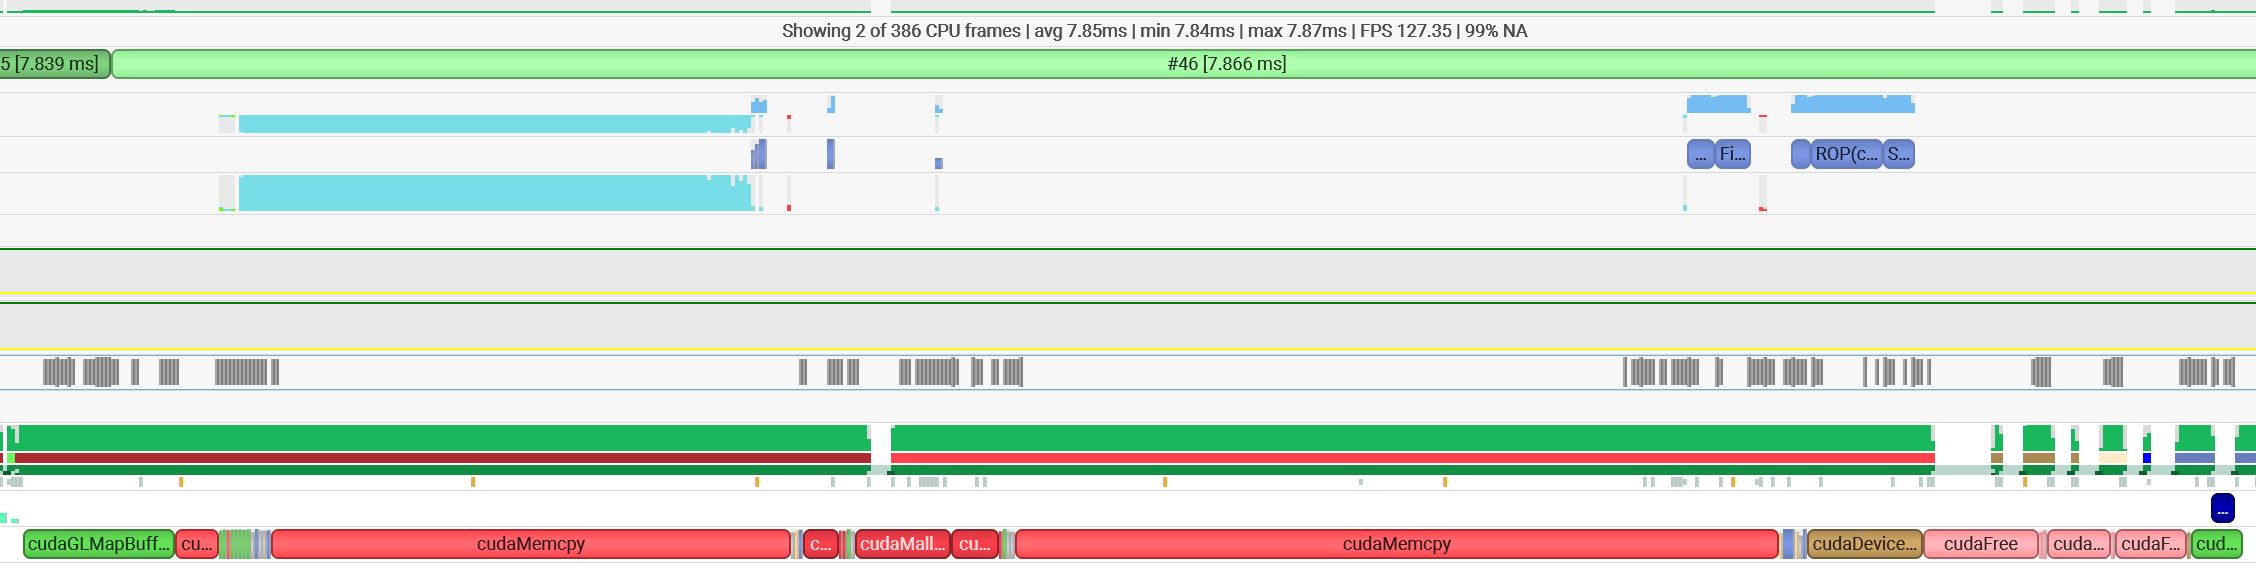
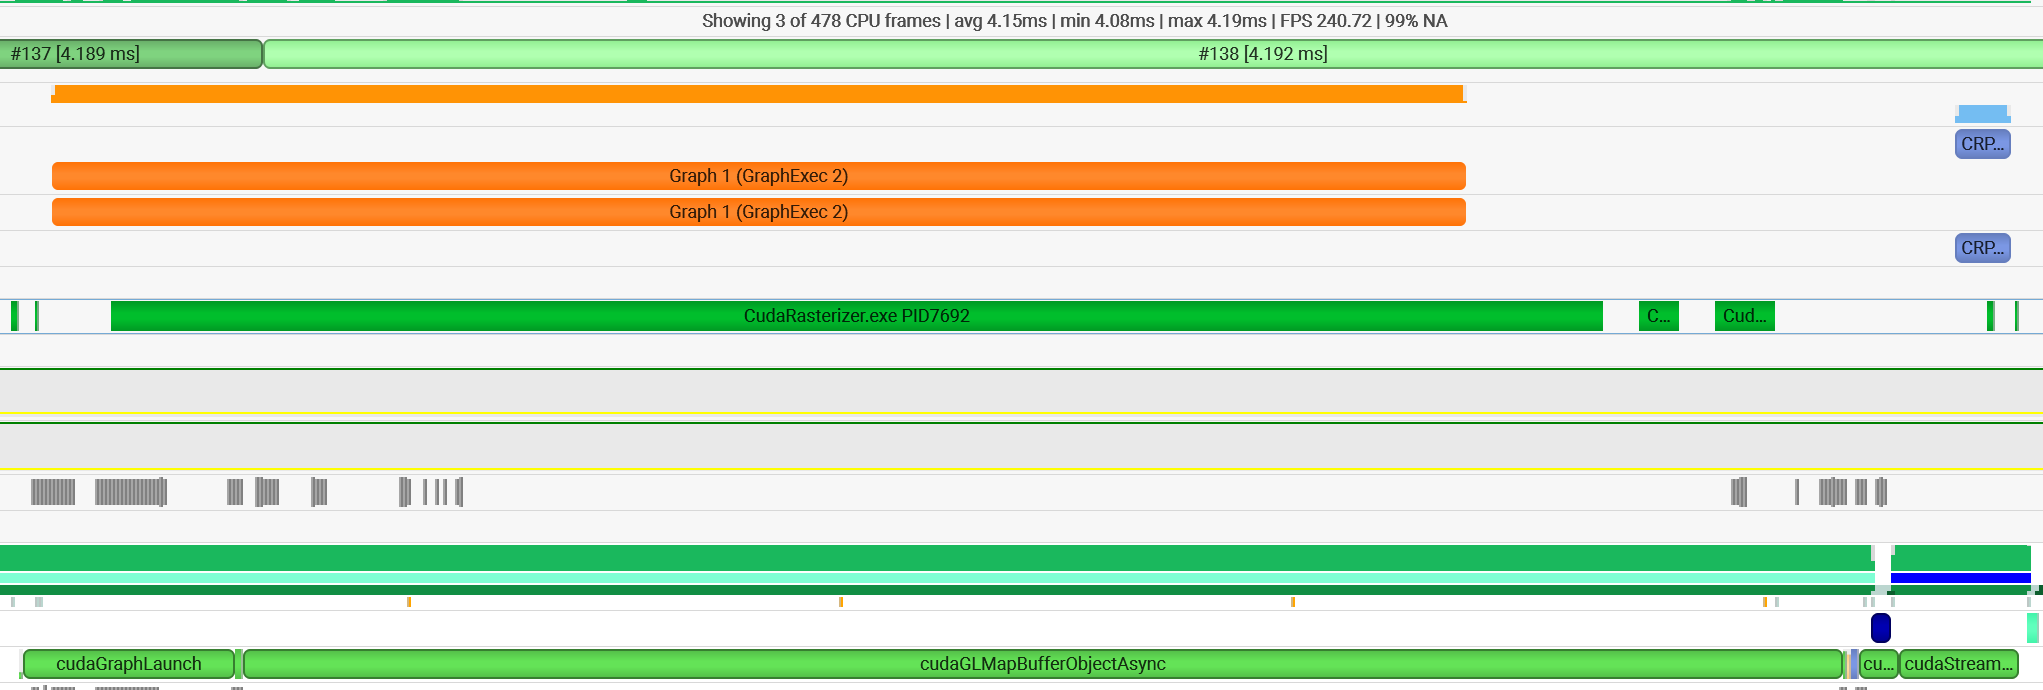
complete readme

diff --git a/README.md b/README.md
@@ -10,9 +10,9 @@ A high-performance GPU rasterizer implemented entirely in CUDA, simulating moder
 
 *upper - opaque; bottom - OIT*
 
-![Rendered Bunny Model](./images/teaser.png)
+<img src="./images/teaser.png" style="zoom:25%;" />
 
-![OIT](./images/OIT.png)
+<img src="./images/OIT.png" style="zoom:25%;" />
 
 ### Motivation - Why Build a CUDA Rasterizer?
 
@@ -58,7 +58,7 @@ We implemented a sort-middle rendering architecture (the primitives are redistri
 
 As the figure above shows, because of the task reducing and redistributing system of the tile-based arch, it's smooth to both zoom in and out
 
-### Advanced CUDA Primitives & technique []
+### Advanced CUDA Primitives & technique [See Chapter Optimization & Performance Analysis]
 
 * Use **warp level functions** implemented a high performance block Size scan algorithm
 * Use **cooperative groups** implemented a one pass stream paction which allows compaction up to **500,000** primitives
@@ -80,7 +80,7 @@ left side: sampling with bilinear interpolation, right side: sampling with trili
 
 with trilinear interpolation, we get a less noisy texture (blurred) which dramatically increase rendering quality for objects at distance
 
-### CUDA Multi-Stream & Graph Optimization []
+### CUDA Multi-Stream & Graph Optimization [See Chapter Optimization & Performance Analysis]
 
 - use cudaStream & cudaGraph to capture a "pipeline object" for the rasterizer and reuse it every frame
 - reducing overhead of launch small kernels in the pipeline 
@@ -95,7 +95,9 @@ with trilinear interpolation, we get a less noisy texture (blurred) which dramat
 
 - **Resolution**: 1920x1080
 
-### Baseline Performance (tiled base method without optimizing)
+### Kernel Performance
+
+**Baseline Performance (tiled base method without optimizing)**
 
 ![before](./images/origin.png)
 
@@ -103,10 +105,12 @@ As shown in the figure, the goal of optimization should focus on kernels "Coarse
 
 <details>   <summary>Optimization: CoarseRasterizer</summary>      As it has a small kernel size (a block for one bin), reducing register usage here makes no sense. Hence we increase the loop unrolling count, increasing instruction effectiveness.   </details>
 
-<details> <summary>Optimization: FineRasterizer</summary>We rewrite the queue read logic and fragment write back logic, making global read and write amortized inside the warp, reducing warp divergence. Interestingly, by making every 4 threads write a quad back, we increase memory coalescing and reduce the register overhead of loop unrolling, which also increases occupancy. Besides that, we increase our block size from 32 to 256, let every 32 threads (a warp) process one tile and the whole block process 4 tiles simultaneously. This dramatically increases occupancy, hiding read latency and eliminating the tail effect.</details>
-
-<details> <summary>Optimization: FineRasterizer</summary> We rewrite the queue read logic and fragment write back logic, making global read and write amortized among the warp, reducing warp divergence. Interestingly, by making every 4 threads write a quad back, we increase memory coalescing and reduce the register overhead of loop unrolling, which also increases occupancy. Besides that, we increase our block size from 32 to 256, let every 32 threads (a warp) process one tile and the whole block process 4 tiles simultaneously. This dramatically increases occupancy, hiding read latency and eliminating the tail effect.
+<details> 
+    <summary>Optimization: FineRasterizer</summary> 
+    We rewrite the queue read logic and fragment write back logic, making global read and write amortized among the warp, reducing warp divergence. Interestingly, by making every 4 threads write a quad back, we increase memory coalescing and reduce the register overhead of loop unrolling, which also increases occupancy. Besides that, we increase our block size from 32 to 256, let every 32 threads (a warp) process one tile and the whole block process 4 tiles simultaneously. This dramatically increases occupancy, hiding read latency and eliminating the tail effect.
 </details>
+
+
 <details> 
     <summary>Optimization: PixelShader
     </summary>
@@ -116,7 +120,7 @@ As shown in the figure, the goal of optimization should focus on kernels "Coarse
     <img src="./images/optimized_tex.png" style="zoom:25%;" />
     <br />
     The figure above shows our optimized data structure, see source code for more details
-
+<\details>
 
 <details> 
     <summary>Optimization: ROP Stage</summary>
@@ -126,81 +130,79 @@ As shown in the figure, the goal of optimization should focus on kernels "Coarse
 
 With these optimization, we get a 31.7% improvement on performance:
 
-### Final Performance
+**Final Performance**
 
 ![after](./images/after.png)
 
 ### CUDA Graph Impact
 
-| Metric | Standard Path | CUDA Graph | Improvement |
+**Default Stream Performance**
+
+![graph](./images/graph.png)
+
+With all CUDA API calls (memset, memcpy, kernel...) on default stream (implicit synchronized), we can not leverage on the parallel power of GPU hardware and between CPU and GPU. As shown in the above figure, the GPU can process only one call at a time, and CPU have to wait for synchronizing to execute the next CUDA API. Besides, because our pipeline has several small task (~ 30us), the overhead of kernel launch dominated. Both of the factors cause a lower GPU busy rate during each frame. 
+
+<details>   <summary>Optimization: CUDA Graph</summary>  
+	First, instead of copy back from GPU to decide next kernel launch size, we launch fixed size block for each kernl, which not only eliminates costly device-to-host mem copy but enables the reuse of cuda graph each frame as well.
+</br>
+	Second, for inevitable host-to-device mem copy every frame (constants and buffer initialization), we use pinned memory and memcpyasync to make it fit into our cuda graph execution.
+</br>
+	We built a dependency graph for all tasks and uses different stream to process independent tasks with event record for stream joint.
+</br>
+	<img src="./images/DAG.jpg" style="zoom:10%;" />
+</br> dependency graph structure illustration
+</details>
+
+**Rewrite With Multi Stream & CudaGraph**
+
+![graph](./images/graph.png)
+
+**Performance analysis**:
+
+| Metric | Default Stream | CUDA Graph | Improvement |
 |--------|--------------|------------|-------------|
-| CPU Overhead | 450 μs | 320 μs | **-28.9%** |
-| GPU Time | 1407 μs | 1390 μs | -1.2% |
-| Total Frame Time | 1857 μs | 1710 μs | **-7.9%** |
+| CPU Time | 7.79ms         | 4.2ms | +85.48% |
+| GPU Time | 6.14ms         | 4.07ms | +50.85%     |
+| GPU Time for Rasterize Pipeline | 6.02ms         | 2.81ms | +114.23%    |
+| Total Frame Time | 7.79ms | 4.2ms      | +85.48% |
 
-### CUDA Graph Optimization
+With cuda graph, we see a dramatical improvement over frame rate (from 120 to 240). As the graph implementation optimizes the rendering pipeline by:
 
-CUDA Graphs reduce CPU overhead by capturing kernel launches into a reusable execution graph:
+* Capturing the entire frame workload as a reusable graph
+* Eliminating kernel launch overhead
+* Enabling concurrent execution of independent operations
 
-```cuda
-// RasterizerGraph.cu - First frame captures graph
-cudaStreamBeginCapture(stream, cudaStreamCaptureModeGlobal);
+## Limitation & Failure Case
 
-// 12 parallel memset operations across streams
-cudaMemsetAsync(dBuffer1, 0, size, stream1);
-cudaMemsetAsync(dBuffer2, 0, size, stream2);
-// ... etc
+**holes on model**
 
-// Sequential rendering kernels (data dependencies)
-VertexShading<<<grid, block, 0, stream>>>();
-PrimitiveAssembly<<<grid, block, 0, stream>>>();
-// ... rest of pipeline
+In release mode, there are some one pixel size holes on model. Since it's in release mode, we cannot use CUDA debugging to see what happened there. Just some speculation, it may caused by the precision of depth value - we store z-plane equation in float form and convert float depth to unsigned depth by multiply a large float, which can cause data precision problems when execute on different SMs at different time. 
 
-cudaStreamEndCapture(stream, &graph);
-cudaGraphInstantiate(&graphExec, graph, nullptr, nullptr, 0);
+![failure](./images/failure.png)
 
-// Subsequent frames just launch the graph
-cudaGraphLaunch(graphExec, stream);
-```
+the cursor points out some holes on the bunny model when rendering in pure color.
 
-**Performance Impact**:
+**cuda graph limit**
 
-- CPU overhead: -20-30% (measured with CPU profiler)
-- Frame time: Marginal improvement (GPU-bound)
-- Best use case: CPU-bound scenarios, many small kernels
+OpenGL interop (`cudaGraphicsMapResources`) cannot be captured in graphs. So we have to write map and unmap logic out of the graph every frame. As these task takes a lot time cpu time whiling keep gpu spare, the GPU still have a stall overhead waiting driver complete resouce mapping
 
-**Critical Limitation**: OpenGL interop (`cudaGraphicsMapResources`) **cannot** be captured in graphs. Solution: Render to staging buffer, then `cudaMemcpy` to PBO outside graph.
+**kernel limit**
 
-### Limitation & Failure Case
-
-**Fine Rasterization (27% of frame)** is the primary bottleneck. Optimization opportunities:
-1. **Hierarchical Z-buffer**: Skip tile rasterization if fully occluded
-2. **Increase tile size**: 8x8 tiles may be too small, causing overhead. Test 16x16.
-3. **Warp utilization**: Profile to ensure >50% warp occupancy
-
-**Pixel Shading (22.7%)** dominated by texture sampling. Mitigations:
-- **Texture cache optimization**: Pad textures to 128-byte alignment
-- **Reduce trilinear to bilinear**: 30% faster, minimal quality loss
-- **Group fragments by tile**: Improve texture cache hit rate
-
-
+* CUDA kernel cannot directly use the L2 cache from last kernel. So all buffers have to write back to global mem and then fetch by other kernels, which requires more bandwidth than real hardware pipeline.
+* Cooperative group' have a limitation on launched kernel block size, which makes our stream compaction cannot reach the theoretical maximum.
 
 ## Future Enhancements
 
-- [ ] **Hierarchical Z-Buffer (Hi-Z)**: Early rejection of occluded tiles
-- [ ] **Multiple Render Targets (MRT)**: G-buffer for deferred shading
-- [ ] **Compute Shader Pipeline**: Port to pure compute for Vulkan/DX12 comparison
-- [ ] **Multi-Draw Indirect**: Batch multiple objects without CPU intervention
-- [ ] **Compressed Textures**: BC7 support for reduced bandwidth
-- [ ] **MSAA**: Multi-sample anti-aliasing with coverage masks
-- [ ] **Dynamic Branching**: Uber-shader for multiple material types
+**Render target compression**: use 4:1 & 8:1 DCC for color and depth buffer, further reduce memory bandwidth for early/late-z and fragment write back 
 
+**Compressed Textures**: similar to rt compression, reduce bandwidth
 
+**Cuda Graph Caching**: like pipeline object caching, support rasterization with different settings and reduce overhead for capture new graph
 
 ## References
 
-- [NVIDIA CUDA C++ Programming Guide](https://docs.nvidia.com/cuda/cuda-c-programming-guide/)
+- [Real-Time Rendering, Fourth Edition, Chapter 23](https://www.realtimerendering.com/)
 - [A trip through the Graphics Pipeline](https://fgiesen.wordpress.com/2011/07/09/a-trip-through-the-graphics-pipeline-2011-index/)
-- [Tile-Based Rendering](https://developer.arm.com/documentation/102662/0100/Tile-based-rendering)
-- [CUDA Graphs Introduction](https://developer.nvidia.com/blog/cuda-graphs/)
-- [GPU Gems 2: Stream Compaction](https://developer.nvidia.com/gpugems/gpugems2/part-vi-simulation-and-numerical-algorithms/chapter-39-parallel-prefix-sum-scan)
+- [tiled caching rendering](https://www.realworldtech.com/tile-based-rasterization-nvidia-gpus/)
+- [High-Performance Software Rasterization on GPUs](https://research.nvidia.com/sites/default/files/pubs/2011-08_High-Performance-Software-Rasterization/laine2011hpg_paper.pdf)
+- S. Molnar, M. Cox, D. Ellsworth and H. Fuchs, "A sorting classification of parallel rendering," in *IEEE Computer Graphics and Applications*, vol. 14, no. 4, pp. 23-32, July 1994, doi: 10.1109/38.291528. keywords: {Sorting;Geometry;Concurrent computing;Computational efficiency;Hardware;Feedforward systems;Pipelines;Aggregates;Costs;Application software},
